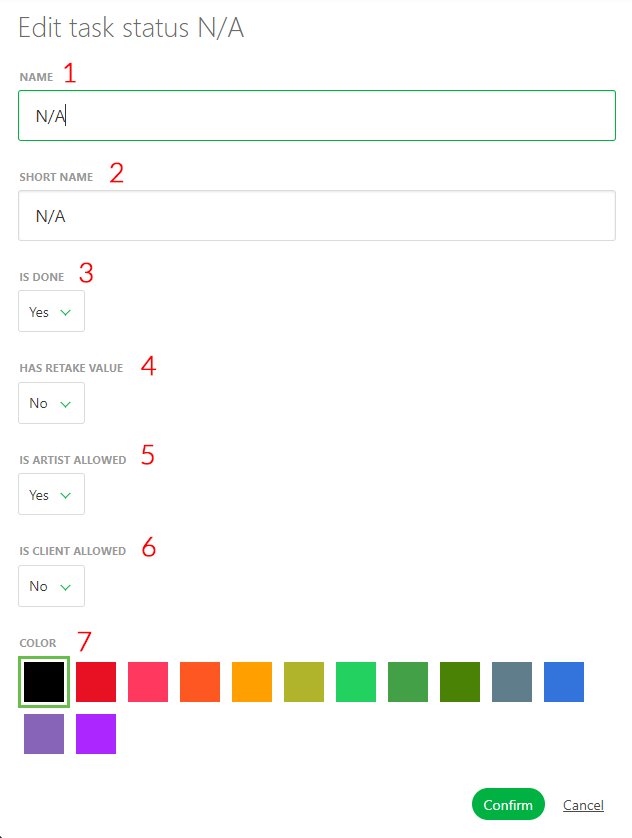
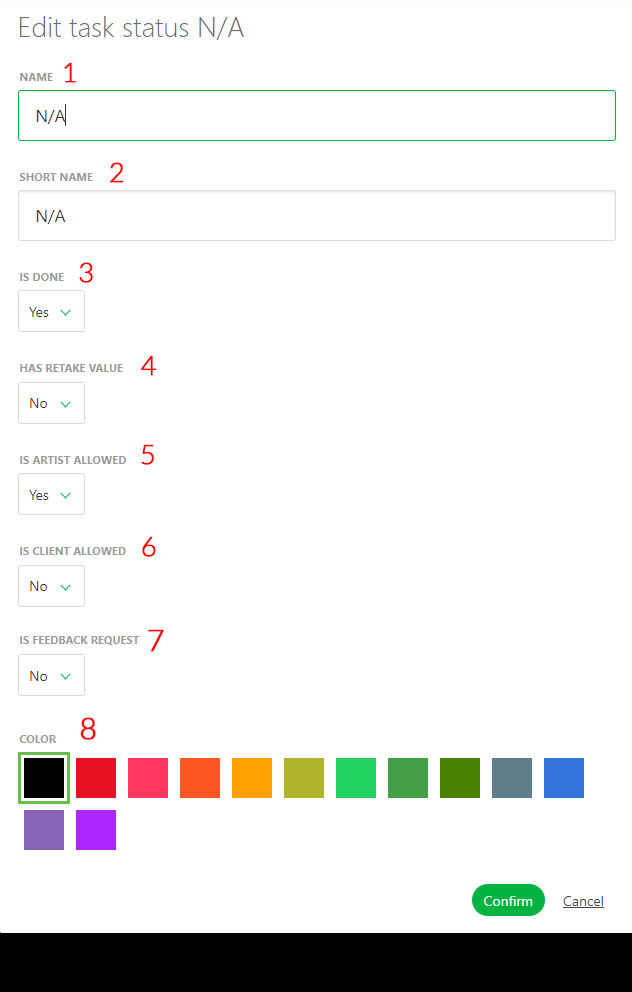
customisation status quotas

diff --git a/docs/customization/README.md b/docs/customization/README.md
@@ -79,7 +79,8 @@ You can change :
 - (4) If this status is used to give comment a task (useful to keep track of the back and forth in the task type page, and for the episode stats page)
 - (5) Can the artist use this status. If **No** the artist won't see this status on his list. But he can post on top of it.
 - (6) Can the client use this status. If **No** the client won't see this status on his list
-- (7) Choose a color you like
+- (7) This option is linked to the quotas. This designed status will stop the quotas calculation
+- (8) Choose a color you like
 
 ![Edit status](../img/getting-started/edit_status.png)
 
